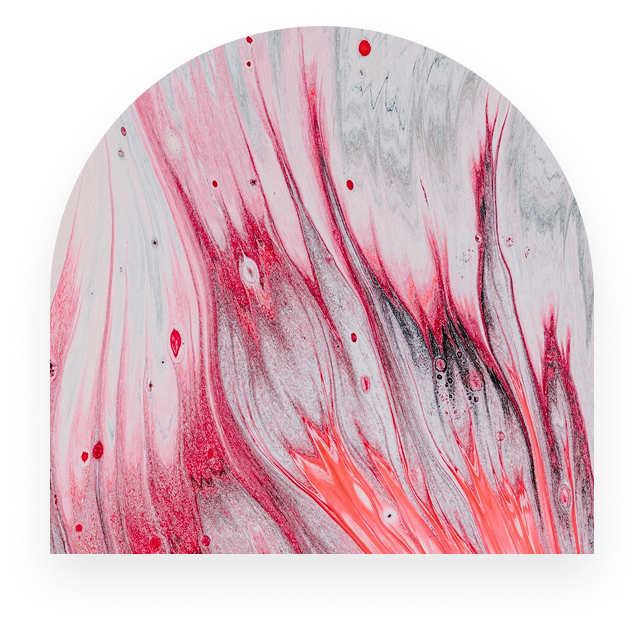
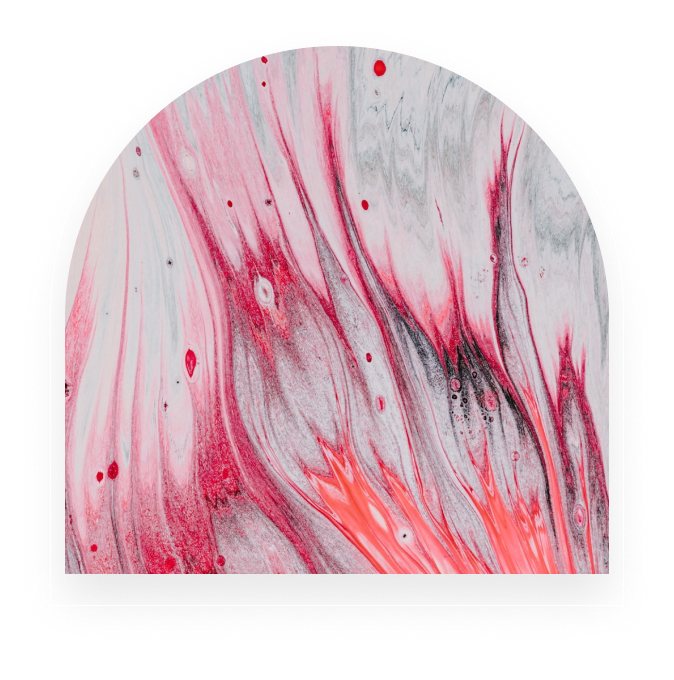
Progresando

diff --git a/css/style.css b/css/style.css
@@ -248,6 +248,7 @@ textarea {
 
 /* Donde comienza el proyecto */
 
+
 :root {
   --color-red: #FA504D;
   --color-black: #2E2F38;
@@ -260,9 +261,16 @@ textarea {
   --text-size3: 24px;
 }
 
+
+* *::before,
+*::after {
+  padding: 0;
+  margin: 0;
+  box-sizing: border-box;
+}
+
 body {
 
-  background-color: var(--color-black);
   background-image: linear-gradient(to right, var(--color-white) 55%, var(--color-black) 55%);
 }
 
@@ -345,10 +353,12 @@ body {
   grid-template-areas: "title product"
     "related product"
   ;
+  gap: 50px;
 }
 
 .page .title {
   grid-area: title;
+  max-height: fit-content;
 }
 
 .page .title h1 {
@@ -441,9 +451,26 @@ body {
 
 .gallery-image {
   grid-area: product;
-  display: flex;
-  flex-direction: column;
-  align-items: center;
+  margin-left: auto;
+  margin-right: auto;
+  position: relative;
+}
+
+.gallery-image::before {
+  content: "Artzie.";
+  display: block;
+  width: 400px;
+  height: 300px;
+  color: white;
+  opacity: 0.03;
+  z-index: -1;
+  font-family: var(--title-font);
+  font-size: 200px;
+  font-weight: 400;
+  position: absolute;
+  transform: rotate(90deg);
+  right: -180px;
+  top: 50px;
 }
 
 .gallery-image img {
@@ -458,7 +485,7 @@ body {
   width: 550px;
   font-family: var(--text-font);
   padding: 10px;
-
+  margin: 0;
 }
 
 
@@ -547,7 +574,41 @@ body {
   color: var(--color-black);
 }
 
+.total {
+  width: 100%;
+  display: flex;
+  justify-content: space-between;
+}
+
+.total div {
+  font-family: var(--text-font);
+  color: var(--color-white);
+  font-size: var(--text-size);
+  padding: 5px;
+  margin: 20px 0;
+}
+
+.total div span {
+  font-size: var(--text-size3);
+  color: var(--color-red);
+  padding: 5px;
+}
+
 
 .more {
   grid-area: related;
+}
+
+.more .more-content {
+  display: flex;
+  gap: 20px;
+
+}
+
+.more .more-content article img {
+  width: 100%;
+  margin: 0;
+  padding: 10px;
+  border: 1px solid var(--color-gray);
+  box-sizing: border-box;
 }

diff --git a/index.html b/index.html
@@ -60,7 +60,7 @@
       </div>
       <article class="gallery-image">
         <div>
-          <img src="img/border (3).png" alt="">
+          <img src="img/border.png" alt="">
         </div>
         <div class="image-info">
           <div class="artist">
